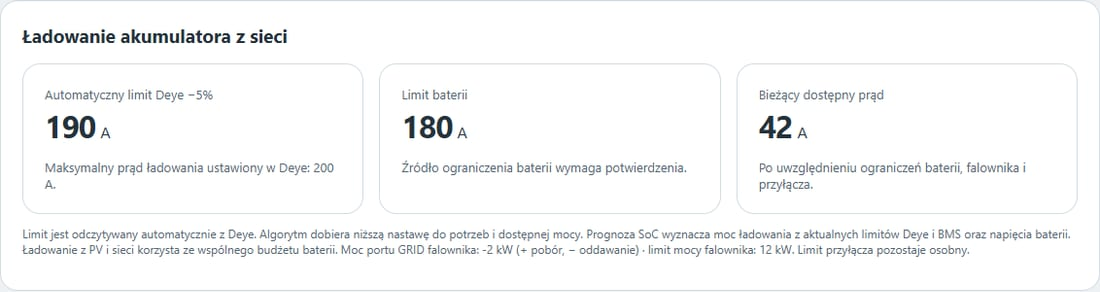
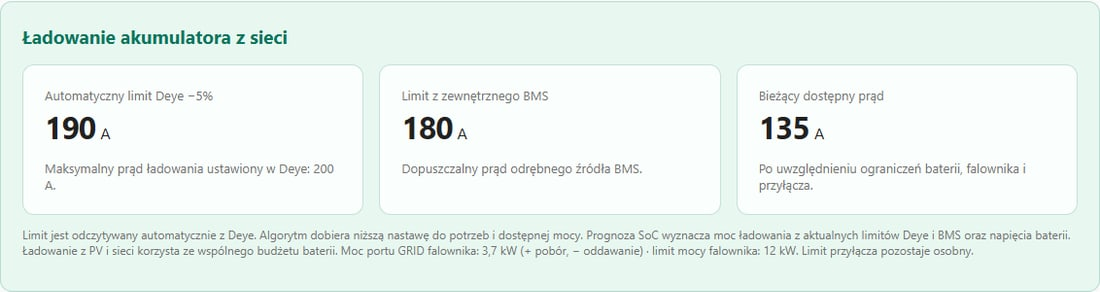
Deye EMS 2.4.1: show colour screenshots with real installation data

diff --git a/README.md b/README.md
@@ -19,7 +19,7 @@
 3. **Zabezpieczenia.** Ustawienia rezerwy, stan baterii, aktualność pomiarów i zgodność odczytów z konfiguracją ograniczają działanie regulatora. Tryb obserwacji pokazuje plan i diagnostykę bez przejmowania sterowania falownikiem.
 4. **TOP BALANCE.** Operator może zadać własny cel SoC do 100%, w zakresie akceptowanym przez falownik, i uruchomić ładowanie z sieci także w drogiej strefie. EMS respektuje limity instalacji i BMS. Po osiągnięciu celu lub ręcznym zakończeniu przywraca nastawy slotu i wraca do zwykłego planu. Balansowaniem ogniw zajmuje się BMS.
 
-*Zrzuty ekranu pochodzą z panelu demonstracyjnego i pokazują dane przykładowe.*
+*Kolorowe zrzuty panelu Deye EMS 2.4.1 z rzeczywistymi pomiarami z jednej instalacji. Nazwy encji zostały ukryte.*
 
 ![Prognoza SoC z wykresem i ryzykiem niedoboru](https://raw.githubusercontent.com/gaszu/deye-ems/main/preview/screenshots/plan-soc.jpg)
 
@@ -53,7 +53,7 @@ Katalog zawiera profile wybranych europejskich, niskonapięciowych falowników h
 
 Konfiguracja własna pozwala ręcznie określić parametry falownika i przypisać wymagane encje. Integracja obsługuje **Zero Export To Load**, gdzie dom jest mierzony na wyjściu LOAD, oraz **Zero Export To CT**, gdzie osobne odczyty portu GRID i licznika CT pozwalają uwzględnić również odbiorniki między falownikiem a przyłączem. Możliwość sterowania zależy od dostępności wymaganych pomiarów i nastaw TOU w Home Assistant. [Katalog modeli](custom_components/deye_ems/inverter_models.py)
 
-![Widok topologii LOAD i CT z bilansem mocy](https://raw.githubusercontent.com/gaszu/deye-ems/main/preview/screenshots/load-ct.jpg)
+![Widok topologii LOAD z bilansem mocy](https://raw.githubusercontent.com/gaszu/deye-ems/main/preview/screenshots/load-ct.jpg)
 
 ### Własne odbiorniki
 
@@ -103,7 +103,7 @@ Zainstaluj integrację przez Marketplace albo użyj paczki ZIP z opublikowanego 
 3. **Safeguards.** The battery reserve, battery status, measurement freshness and consistency with the configured installation all constrain control. Observation mode shows the plan and diagnostics without taking control of the inverter.
 4. **TOP BALANCE.** An operator can set an SoC target up to 100%, within the inverter’s accepted range, and start grid charging even during an expensive tariff period. EMS respects installation and BMS limits. When the target is reached or the operator stops the session, EMS restores the slot settings and resumes the normal plan. The BMS handles cell balancing.
 
-*Screenshots show the demonstration dashboard with sample data.*
+*Colour screenshots of Deye EMS 2.4.1 using real measurements from one installation. Entity IDs are masked.*
 
 ![Projected SoC chart with energy shortage risk](https://raw.githubusercontent.com/gaszu/deye-ems/main/preview/screenshots/plan-soc.jpg)
 
@@ -137,7 +137,7 @@ The catalogue includes profiles for selected European low-voltage Deye hybrid in
 
 A custom profile allows manual entry of inverter parameters and mapping of the required entities. The integration supports **Zero Export To Load**, where household demand is measured at the LOAD output, and **Zero Export To CT**, where separate GRID-port and CT readings also account for loads between the inverter and the service connection. Control requires the relevant measurements and writable Time of Use (TOU) settings in Home Assistant. [Inverter catalogue](custom_components/deye_ems/inverter_models.py)
 
-![LOAD and CT layout with the power balance](https://raw.githubusercontent.com/gaszu/deye-ems/main/preview/screenshots/load-ct.jpg)
+![LOAD layout with the power balance](https://raw.githubusercontent.com/gaszu/deye-ems/main/preview/screenshots/load-ct.jpg)
 
 ### Custom loads
 
